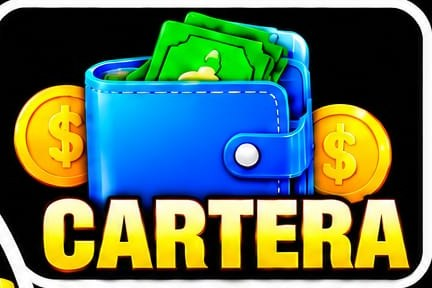
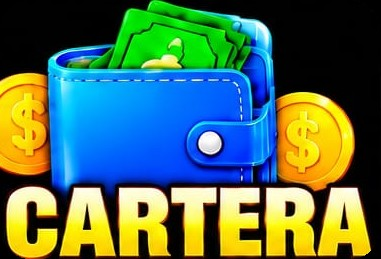
Botones del menú: recortes limpios, marco uniforme y efecto de brillo y color al pasar el mouse
Claude-Session: https://claude.ai/code/session_01QcY2MacvdR9nffxejZmouy

diff --git a/css/styles.css b/css/styles.css
@@ -110,22 +110,53 @@ main { max-width: 1200px; margin: 0 auto; padding: 18px 16px 60px; }
 }
 .menu-logo { grid-area: logo; width: 100%; max-width: 520px; justify-self: center; animation: pop .6s ease-out; }
 .tile {
-  display: block; padding: 0; border: 0; background: none;
-  border-radius: var(--radius); overflow: hidden;
-  transition: transform .15s, filter .15s;
-  animation: rise .5s ease-out both;
+  --glow: #1e9bff;
+  position: relative;
+  display: flex; align-items: center; justify-content: center;
+  width: 100%;
+  padding: 4px;
+  background: #000;
+  border: 4px solid #fff;
+  border-radius: 20px;
+  overflow: hidden;
+  box-shadow: 0 0 0 2px #000, 0 0 0 3px #ffffff33;
+  transition: transform .2s ease, filter .2s ease, box-shadow .2s ease, border-color .2s ease;
+  animation: rise .5s ease-out backwards; /* backwards: no bloquea el transform del hover */
 }
-.tile img { display: block; width: 100%; height: auto; }
-.tile:hover { transform: translateY(-3px) scale(1.03); filter: brightness(1.15) drop-shadow(0 0 14px #1e9bff88); }
-.tile:active { transform: scale(.97); }
-.tile:focus-visible { outline: 3px solid var(--blue); outline-offset: 3px; }
-.t-clientes { grid-area: clientes; }
-.t-cartera { grid-area: cartera; }
-.t-estadistica { grid-area: estadistica; }
-.t-reporte { grid-area: reporte; }
-.t-factura { grid-area: factura; }
-.t-orden { grid-area: orden; }
-.t-inventario { grid-area: inventario; }
+.tile img { display: block; width: 100%; height: 100%; object-fit: contain; border-radius: 14px; }
+/* mismo alto para los botones de cada fila */
+.t-clientes, .t-cartera { aspect-ratio: 1.5; }
+.t-estadistica, .t-reporte { aspect-ratio: 1.42; }
+.t-factura, .t-orden { aspect-ratio: 2; }
+.t-inventario { aspect-ratio: 7.6; }
+
+/* destello de luz que cruza el botón */
+.tile::after {
+  content: '';
+  position: absolute; top: -20%; bottom: -20%; left: -60%; width: 40%;
+  background: linear-gradient(100deg, transparent, #ffffffaa, transparent);
+  transform: skewX(-20deg);
+  opacity: 0;
+  pointer-events: none;
+}
+.tile:hover, .tile:focus-visible {
+  transform: translateY(-4px) scale(1.05);
+  filter: brightness(1.3) saturate(1.6) contrast(1.05);
+  border-color: var(--glow);
+  box-shadow: 0 0 0 2px #fff, 0 0 18px 4px var(--glow), 0 0 46px 10px color-mix(in srgb, var(--glow) 55%, transparent);
+  z-index: 2;
+  outline: none;
+}
+.tile:hover::after, .tile:focus-visible::after { animation: shine .7s ease-out; }
+.tile:active { transform: scale(.97); filter: brightness(1.45) saturate(1.8); }
+
+.t-clientes { grid-area: clientes; --glow: #1e9bff; }
+.t-cartera { grid-area: cartera; --glow: #ffd500; }
+.t-estadistica { grid-area: estadistica; --glow: #22c55e; }
+.t-reporte { grid-area: reporte; --glow: #ef2b2d; }
+.t-factura { grid-area: factura; --glow: #ffb800; }
+.t-orden { grid-area: orden; --glow: #2ee86b; }
+.t-inventario { grid-area: inventario; --glow: #ff9a1f; }
 .menu-grid .tile:nth-child(2) { animation-delay: .05s; }
 .menu-grid .tile:nth-child(3) { animation-delay: .1s; }
 .menu-grid .tile:nth-child(4) { animation-delay: .15s; }
@@ -321,6 +352,7 @@ tfoot td { font-weight: 700; background: #1a1a1f; font-size: 18px; }
 }
 
 @keyframes pop { from { transform: scale(.85); opacity: 0; } to { transform: scale(1); opacity: 1; } }
+@keyframes shine { 0% { left: -60%; opacity: 1; } 100% { left: 130%; opacity: 0; } }
 @keyframes rise { from { transform: translateY(14px); opacity: 0; } to { transform: translateY(0); opacity: 1; } }
 
 @media (prefers-reduced-motion: reduce) {
